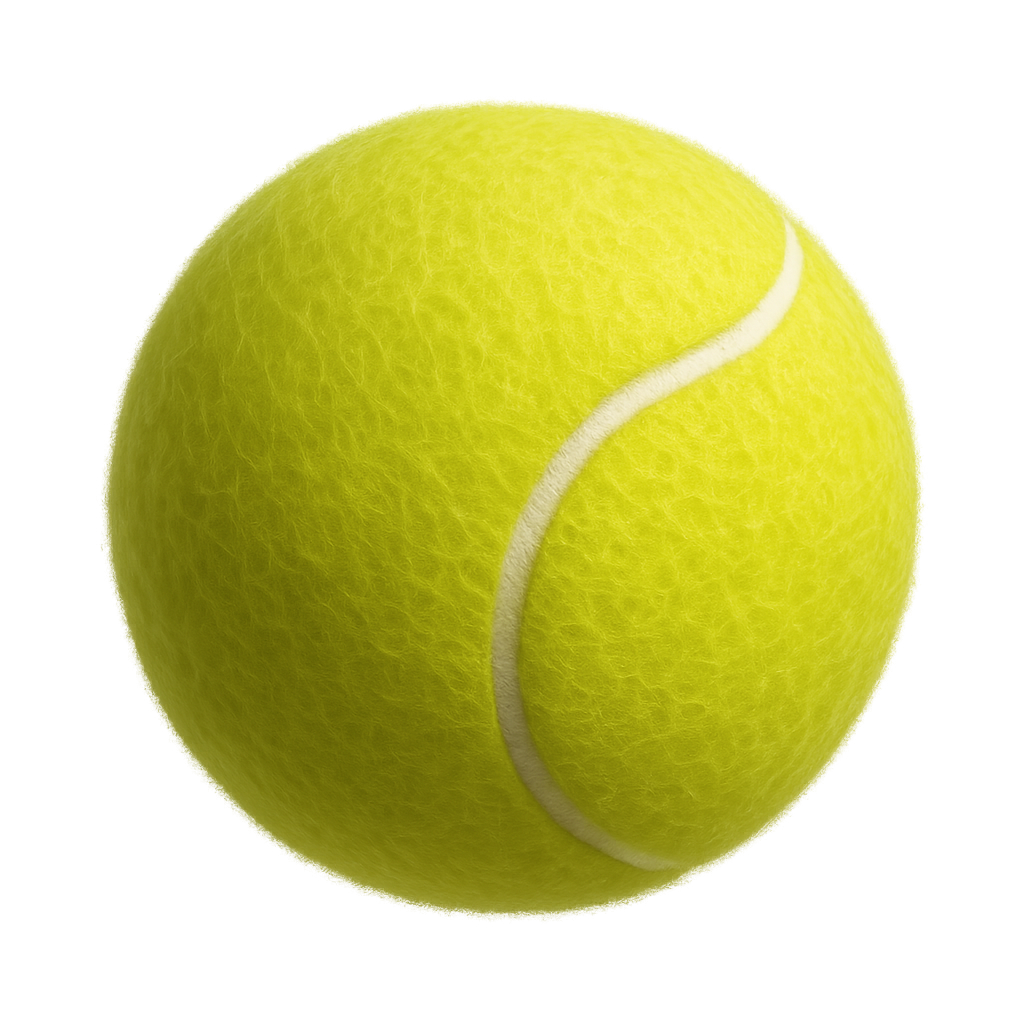
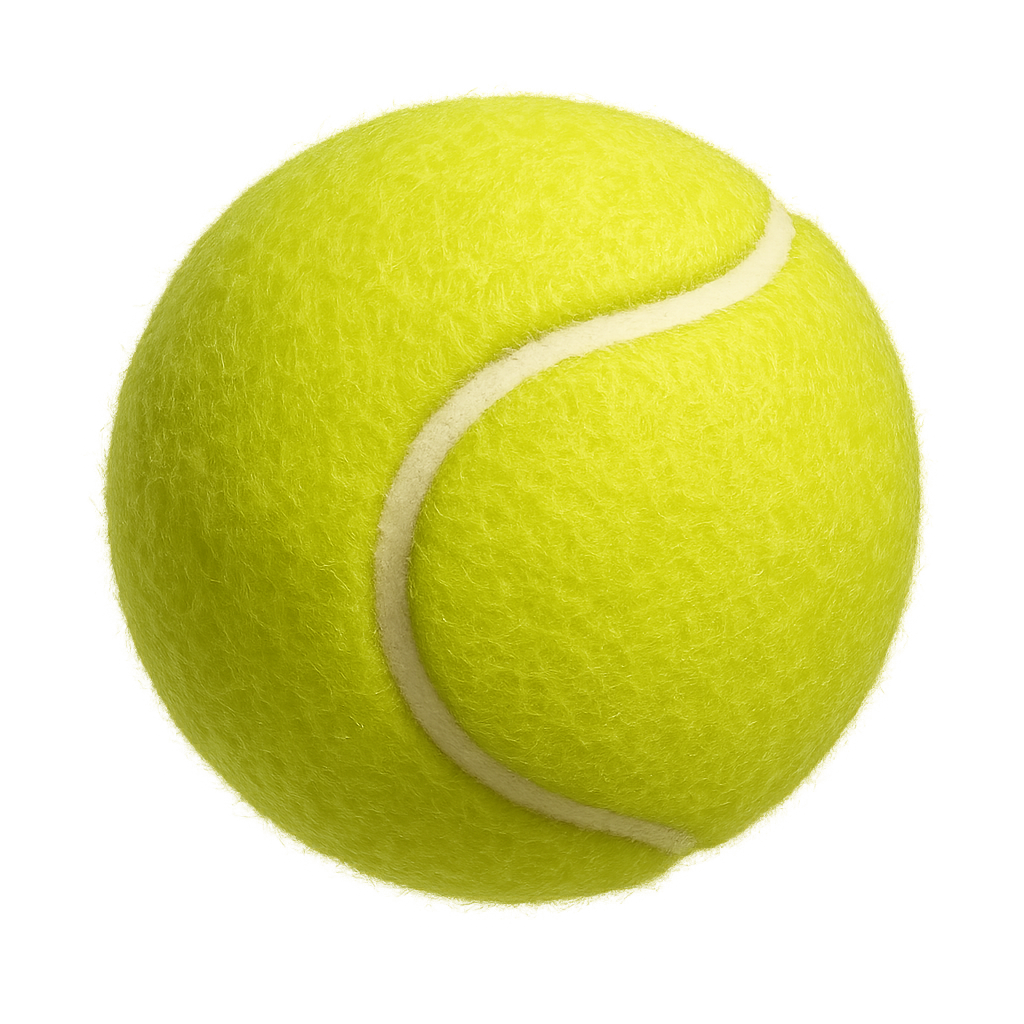
Replace procedural ball renderers with sprite-based rendering
- Rendering.Ball now loads PNG sprites from Assets/Generated/ via pack URI
- DrawImage + RotateTransform for spin, EllipseGeometry clip for crisp edges
- BitmapScalingMode.Fant set before freeze for quality downscale
- Radial highlight overlay kept in world space for 3D lighting
- csproj: sprites included as <Resource> (was empty <Folder>)
- Regenerated tennis-ball.png with bolder seam lines for small-size legibility
- Removes ~290 lines of per-type primitive drawing (wedges, beziers, pentagons, etc.)

diff --git a/AudioVisualizer/Components/Rendering.cs b/AudioVisualizer/Components/Rendering.cs
@@ -1,6 +1,7 @@
 using System;
 using System.Windows;
 using System.Windows.Media;
+using System.Windows.Media.Imaging;
 using AudioVisualizer.Configuration;
 using AudioVisualizer.Entities;
 using Microsoft.Win32;
@@ -175,99 +176,29 @@ public abstract class Rendering
     // ─────────────────────────────────────────────────────────────────────────
     #region Nested: Ball
     /// <summary>
-    /// Ball renderer that dispatches to per-type drawing methods based on <see cref="BallKind"/>.
-    /// Each ball type has its own visual identity: beach ball stripes, basketball seams,
-    /// tennis ball felt, etc. All share a common radial highlight for 3D effect.
+    /// Sprite-based ball renderer. Loads a pre-generated PNG for each <see cref="BallKind"/>
+    /// and draws it with rotation. A radial highlight overlay in world space provides
+    /// a consistent 3D lighting effect across all ball types.
     /// </summary>
     public sealed class Ball : Rendering
     {
         private readonly Physics.Ball _physics;
+        private readonly BitmapImage _sprite;
         private readonly RadialGradientBrush _highlightBrush;
-
-        // Beach ball
-        private readonly Brush[]? _stripeBrushes;
-
-        // Basketball
-        private readonly Brush? _basketballFill;
-        private readonly Pen? _basketballSeamPen;
-
-        // Tennis ball
-        private readonly Brush? _tennisFill;
-        private readonly Pen? _tennisSeamPen;
-
-        // Soccer ball
-        private readonly Brush? _soccerFill;
-        private readonly Pen? _soccerPanelPen;
-
-        // Baseball
-        private readonly Brush? _baseballFill;
-        private readonly Pen? _baseballStitchPen;
-
-        // Racquetball
-        private readonly Brush? _racquetballFill;
-
-        // Bowling ball
-        private readonly Brush? _bowlingFill;
-        private readonly Brush? _bowlingHoleBrush;
-
-        // Shared
-        private readonly Pen _outlinePen;
 
         public Ball(Physics.Ball physics)
         {
             _physics = physics;
 
+            var uri = new Uri($"pack://application:,,,/Assets/Generated/{SpriteFileName(physics.Kind)}");
+            _sprite = new BitmapImage(uri);
+            RenderOptions.SetBitmapScalingMode(_sprite, BitmapScalingMode.Fant);
+            _sprite.Freeze();
+
             _highlightBrush = new RadialGradientBrush();
             _highlightBrush.GradientStops.Add(new GradientStop(Color.FromArgb(100, 255, 255, 255), 0.0));
             _highlightBrush.GradientStops.Add(new GradientStop(Color.FromArgb(  0, 255, 255, 255), 0.7));
             _highlightBrush.Freeze();
-
-            switch (physics.Kind)
-            {
-                case BallKind.BeachBall:
-                    _stripeBrushes = new Brush[]
-                    {
-                        new SolidColorBrush(Color.FromRgb(220, 50, 50)),
-                        new SolidColorBrush(Color.FromRgb(255, 220, 50)),
-                        new SolidColorBrush(Color.FromRgb(50, 120, 220)),
-                        new SolidColorBrush(Colors.White),
-                    };
-                    foreach (var b in _stripeBrushes) b.Freeze();
-                    _outlinePen = new Pen(Brushes.White, 2); break;
-
-                case BallKind.Basketball:
-                    _basketballFill = new SolidColorBrush(Color.FromRgb(200, 100, 20)); _basketballFill.Freeze();
-                    _basketballSeamPen = new Pen(new SolidColorBrush(Color.FromRgb(40, 20, 5)), 1.5); _basketballSeamPen.Freeze();
-                    _outlinePen = new Pen(new SolidColorBrush(Color.FromRgb(60, 30, 10)), 2); break;
-
-                case BallKind.TennisBall:
-                    _tennisFill = new SolidColorBrush(Color.FromRgb(200, 220, 50)); _tennisFill.Freeze();
-                    _tennisSeamPen = new Pen(Brushes.White, 1.5); _tennisSeamPen.Freeze();
-                    _outlinePen = new Pen(new SolidColorBrush(Color.FromRgb(160, 180, 40)), 1.5); break;
-
-                case BallKind.SoccerBall:
-                    _soccerFill = Brushes.White;
-                    _soccerPanelPen = new Pen(new SolidColorBrush(Color.FromRgb(30, 30, 30)), 1.2); _soccerPanelPen.Freeze();
-                    _outlinePen = new Pen(new SolidColorBrush(Color.FromRgb(80, 80, 80)), 1.5); break;
-
-                case BallKind.Baseball:
-                    _baseballFill = new SolidColorBrush(Color.FromRgb(245, 240, 230)); _baseballFill.Freeze();
-                    _baseballStitchPen = new Pen(new SolidColorBrush(Color.FromRgb(200, 40, 40)), 1.2); _baseballStitchPen.Freeze();
-                    _outlinePen = new Pen(new SolidColorBrush(Color.FromRgb(180, 175, 165)), 1.5); break;
-
-                case BallKind.Racquetball:
-                    _racquetballFill = new SolidColorBrush(Color.FromRgb(30, 100, 220)); _racquetballFill.Freeze();
-                    _outlinePen = new Pen(new SolidColorBrush(Color.FromRgb(20, 70, 160)), 1.5); break;
-
-                case BallKind.BowlingBall:
-                    _bowlingFill = new SolidColorBrush(Color.FromRgb(25, 25, 35)); _bowlingFill.Freeze();
-                    _bowlingHoleBrush = new SolidColorBrush(Color.FromRgb(15, 15, 20)); _bowlingHoleBrush.Freeze();
-                    _outlinePen = new Pen(new SolidColorBrush(Color.FromRgb(50, 50, 60)), 2); break;
-
-                default:
-                    _outlinePen = new Pen(Brushes.White, 2); break;
-            }
-            _outlinePen.Freeze();
         }
 
         /// <inheritdoc />
@@ -275,226 +206,35 @@ public abstract class Rendering
         {
             var pos = entity.Position;
             double radius = _physics.Radius;
+            var rect = new Rect(pos.X - radius, pos.Y - radius, radius * 2, radius * 2);
+
+            // Clip to a circle so the heavily-downscaled transparent edges stay crisp
+            var clipGeometry = new EllipseGeometry(pos, radius, radius);
+            clipGeometry.Freeze();
+            dc.PushClip(clipGeometry);
 
             dc.PushTransform(new RotateTransform(_physics.Rotation, pos.X, pos.Y));
+            dc.DrawImage(_sprite, rect);
+            dc.Pop(); // rotation
 
-            switch (_physics.Kind)
-            {
-                case BallKind.BeachBall:    RenderBeachBall(dc, pos, radius); break;
-                case BallKind.Basketball:   RenderBasketball(dc, pos, radius); break;
-                case BallKind.TennisBall:   RenderTennisBall(dc, pos, radius); break;
-                case BallKind.SoccerBall:   RenderSoccerBall(dc, pos, radius); break;
-                case BallKind.Baseball:     RenderBaseball(dc, pos, radius); break;
-                case BallKind.Racquetball:  RenderRacquetball(dc, pos, radius); break;
-                case BallKind.BowlingBall:  RenderBowlingBall(dc, pos, radius); break;
-            }
+            dc.Pop(); // clip
 
-            dc.Pop();
-
-            // Highlight is rendered in world space (light source doesn't rotate with the ball)
+            // Highlight in world space (light source doesn't rotate with the ball)
             var highlightCenter = new Point(pos.X - radius * 0.25, pos.Y - radius * 0.25);
             dc.DrawEllipse(_highlightBrush, null, highlightCenter, radius * 0.6, radius * 0.6);
         }
 
-        #region Per-type renderers
-
-        private void RenderBeachBall(DrawingContext dc, Point pos, double radius)
+        private static string SpriteFileName(BallKind kind) => kind switch
         {
-            int stripeCount = _stripeBrushes!.Length;
-            double anglePerStripe = 360.0 / stripeCount;
-            for (int i = 0; i < stripeCount; i++)
-            {
-                double startAngle = i * anglePerStripe - 90;
-                var segment = CreateWedgeGeometry(pos, radius, startAngle, anglePerStripe);
-                dc.DrawGeometry(_stripeBrushes[i], null, segment);
-            }
-            dc.DrawEllipse(null, _outlinePen, pos, radius, radius);
-        }
-
-        private void RenderBasketball(DrawingContext dc, Point pos, double radius)
-        {
-            dc.DrawEllipse(_basketballFill, _outlinePen, pos, radius, radius);
-
-            // Horizontal seam
-            dc.DrawLine(_basketballSeamPen!, new Point(pos.X - radius * 0.9, pos.Y),
-                                             new Point(pos.X + radius * 0.9, pos.Y));
-
-            // Vertical seam (slight curve via 3-point polyline)
-            dc.DrawLine(_basketballSeamPen!, new Point(pos.X, pos.Y - radius * 0.9),
-                                             new Point(pos.X, pos.Y + radius * 0.9));
-
-            // Two curved cross-seams
-            double cx = radius * 0.55;
-            var leftArc = new PathGeometry();
-            var lf = new PathFigure { StartPoint = new Point(pos.X - cx, pos.Y - radius * 0.7), IsFilled = false };
-            lf.Segments.Add(new BezierSegment(
-                new Point(pos.X - cx * 1.6, pos.Y - radius * 0.15),
-                new Point(pos.X - cx * 1.6, pos.Y + radius * 0.15),
-                new Point(pos.X - cx, pos.Y + radius * 0.7), true));
-            leftArc.Figures.Add(lf); leftArc.Freeze();
-            dc.DrawGeometry(null, _basketballSeamPen, leftArc);
-
-            var rightArc = new PathGeometry();
-            var rf = new PathFigure { StartPoint = new Point(pos.X + cx, pos.Y - radius * 0.7), IsFilled = false };
-            rf.Segments.Add(new BezierSegment(
-                new Point(pos.X + cx * 1.6, pos.Y - radius * 0.15),
-                new Point(pos.X + cx * 1.6, pos.Y + radius * 0.15),
-                new Point(pos.X + cx, pos.Y + radius * 0.7), true));
-            rightArc.Figures.Add(rf); rightArc.Freeze();
-            dc.DrawGeometry(null, _basketballSeamPen, rightArc);
-        }
-
-        private void RenderTennisBall(DrawingContext dc, Point pos, double radius)
-        {
-            dc.DrawEllipse(_tennisFill, _outlinePen, pos, radius, radius);
-
-            // Characteristic curved seam (two mirrored S-curves)
-            double r = radius * 0.85;
-            var seam1 = new PathGeometry();
-            var f1 = new PathFigure { StartPoint = new Point(pos.X - r * 0.3, pos.Y - r), IsFilled = false };
-            f1.Segments.Add(new BezierSegment(
-                new Point(pos.X + r * 0.6, pos.Y - r * 0.3),
-                new Point(pos.X - r * 0.6, pos.Y + r * 0.3),
-                new Point(pos.X + r * 0.3, pos.Y + r), true));
-            seam1.Figures.Add(f1); seam1.Freeze();
-            dc.DrawGeometry(null, _tennisSeamPen, seam1);
-
-            var seam2 = new PathGeometry();
-            var f2 = new PathFigure { StartPoint = new Point(pos.X + r * 0.3, pos.Y - r), IsFilled = false };
-            f2.Segments.Add(new BezierSegment(
-                new Point(pos.X - r * 0.6, pos.Y - r * 0.3),
-                new Point(pos.X + r * 0.6, pos.Y + r * 0.3),
-                new Point(pos.X - r * 0.3, pos.Y + r), true));
-            seam2.Figures.Add(f2); seam2.Freeze();
-            dc.DrawGeometry(null, _tennisSeamPen, seam2);
-        }
-
-        private void RenderSoccerBall(DrawingContext dc, Point pos, double radius)
-        {
-            dc.DrawEllipse(_soccerFill, _outlinePen, pos, radius, radius);
-
-            // Central pentagon
-            DrawPentagon(dc, pos, radius * 0.35, _soccerPanelPen!, filled: true);
-
-            // Surrounding pentagons (5, evenly spaced around the edge)
-            for (int i = 0; i < 5; i++)
-            {
-                double angle = i * 72.0 - 90;
-                double rad = angle * Math.PI / 180.0;
-                var center = new Point(pos.X + radius * 0.62 * Math.Cos(rad),
-                                       pos.Y + radius * 0.62 * Math.Sin(rad));
-                DrawPentagon(dc, center, radius * 0.22, _soccerPanelPen!, filled: true);
-            }
-        }
-
-        private static void DrawPentagon(DrawingContext dc, Point center, double size, Pen pen, bool filled)
-        {
-            var geometry = new PathGeometry();
-            var figure = new PathFigure();
-            for (int i = 0; i < 5; i++)
-            {
-                double angle = (i * 72 - 90) * Math.PI / 180.0;
-                var pt = new Point(center.X + size * Math.Cos(angle), center.Y + size * Math.Sin(angle));
-                if (i == 0) figure.StartPoint = pt;
-                else figure.Segments.Add(new LineSegment(pt, true));
-            }
-            figure.IsClosed = true;
-            geometry.Figures.Add(figure);
-            geometry.Freeze();
-            dc.DrawGeometry(filled ? new SolidColorBrush(Color.FromRgb(30, 30, 30)) : null, pen, geometry);
-        }
-
-        private void RenderBaseball(DrawingContext dc, Point pos, double radius)
-        {
-            dc.DrawEllipse(_baseballFill, _outlinePen, pos, radius, radius);
-
-            // Red stitching — two mirrored C-curves
-            double r = radius * 0.75;
-            for (int side = -1; side <= 1; side += 2)
-            {
-                double ox = side * radius * 0.45;
-                var stitch = new PathGeometry();
-                var fig = new PathFigure
-                {
-                    StartPoint = new Point(pos.X + ox, pos.Y - r),
-                    IsFilled = false
-                };
-                fig.Segments.Add(new BezierSegment(
-                    new Point(pos.X + ox + side * r * 0.8, pos.Y - r * 0.35),
-                    new Point(pos.X + ox + side * r * 0.8, pos.Y + r * 0.35),
-                    new Point(pos.X + ox, pos.Y + r), true));
-                stitch.Figures.Add(fig);
-                stitch.Freeze();
-                dc.DrawGeometry(null, _baseballStitchPen, stitch);
-
-                // Stitch tick marks along the curve
-                int ticks = 6;
-                for (int t = 1; t < ticks; t++)
-                {
-                    double frac = t / (double)ticks;
-                    double ty = pos.Y - r + frac * 2 * r;
-                    double bulge = Math.Sin(frac * Math.PI) * side * r * 0.8;
-                    double tx = pos.X + ox + bulge * 0.7;
-                    double tickLen = radius * 0.08;
-                    dc.DrawLine(_baseballStitchPen!, new Point(tx - tickLen, ty - tickLen),
-                                                     new Point(tx + tickLen, ty + tickLen));
-                }
-            }
-        }
-
-        private void RenderRacquetball(DrawingContext dc, Point pos, double radius)
-        {
-            dc.DrawEllipse(_racquetballFill, _outlinePen, pos, radius, radius);
-        }
-
-        private void RenderBowlingBall(DrawingContext dc, Point pos, double radius)
-        {
-            // Dark glossy body with subtle radial gradient
-            var glossBrush = new RadialGradientBrush();
-            glossBrush.GradientOrigin = new Point(0.35, 0.35);
-            glossBrush.GradientStops.Add(new GradientStop(Color.FromRgb(60, 60, 80), 0.0));
-            glossBrush.GradientStops.Add(new GradientStop(Color.FromRgb(20, 20, 30), 1.0));
-            glossBrush.Freeze();
-            dc.DrawEllipse(glossBrush, _outlinePen, pos, radius, radius);
-
-            // Three finger holes in a triangle near the top
-            double holeR = radius * 0.1;
-            double holeY = pos.Y - radius * 0.3;
-            dc.DrawEllipse(_bowlingHoleBrush, null, new Point(pos.X - radius * 0.2, holeY), holeR, holeR);
-            dc.DrawEllipse(_bowlingHoleBrush, null, new Point(pos.X + radius * 0.2, holeY), holeR, holeR);
-            dc.DrawEllipse(_bowlingHoleBrush, null, new Point(pos.X, holeY - radius * 0.22), holeR, holeR);
-        }
-
-        #endregion
-
-        /// <summary>
-        /// Build a pie-slice geometry for one beach-ball stripe.
-        /// </summary>
-        private static PathGeometry CreateWedgeGeometry(Point center, double radius, double startAngleDeg, double angleDeg)
-        {
-            var geometry = new PathGeometry();
-            var figure = new PathFigure { StartPoint = center };
-
-            double startAngle = startAngleDeg * Math.PI / 180.0;
-            double endAngle   = (startAngleDeg + angleDeg) * Math.PI / 180.0;
-
-            var startPoint = new Point(
-                center.X + radius * Math.Cos(startAngle),
-                center.Y + radius * Math.Sin(startAngle));
-            var endPoint = new Point(
-                center.X + radius * Math.Cos(endAngle),
-                center.Y + radius * Math.Sin(endAngle));
-
-            figure.Segments.Add(new LineSegment(startPoint, true));
-            figure.Segments.Add(new ArcSegment(endPoint, new Size(radius, radius), 0,
-                angleDeg > 180, SweepDirection.Clockwise, true));
-            figure.Segments.Add(new LineSegment(center, true));
-
-            figure.IsClosed = true;
-            geometry.Figures.Add(figure);
-            geometry.Freeze();
-            return geometry;
-        }
+            BallKind.BeachBall   => "beach-ball.png",
+            BallKind.Racquetball => "racquetball.png",
+            BallKind.TennisBall  => "tennis-ball.png",
+            BallKind.SoccerBall  => "soccer-ball.png",
+            BallKind.Basketball  => "basketball.png",
+            BallKind.Baseball    => "baseball.png",
+            BallKind.BowlingBall => "bowling-ball.png",
+            _                    => "beach-ball.png",
+        };
     }
     #endregion
 